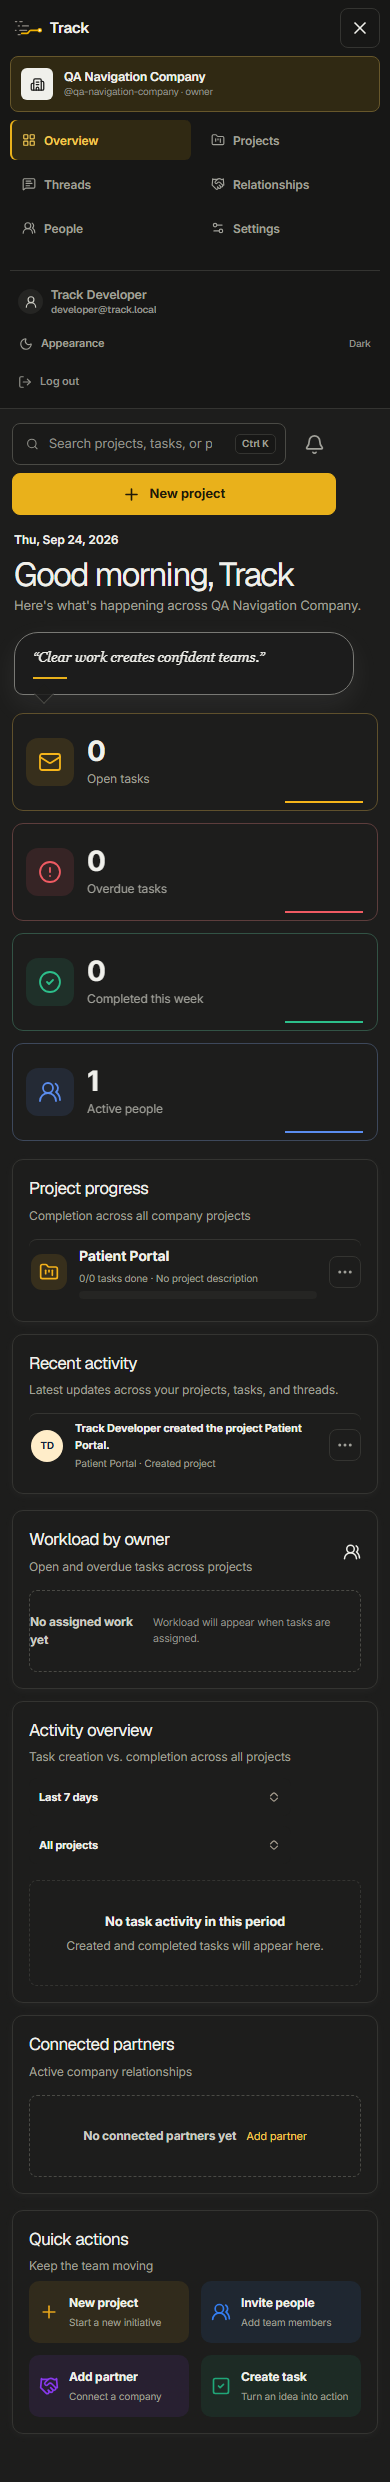
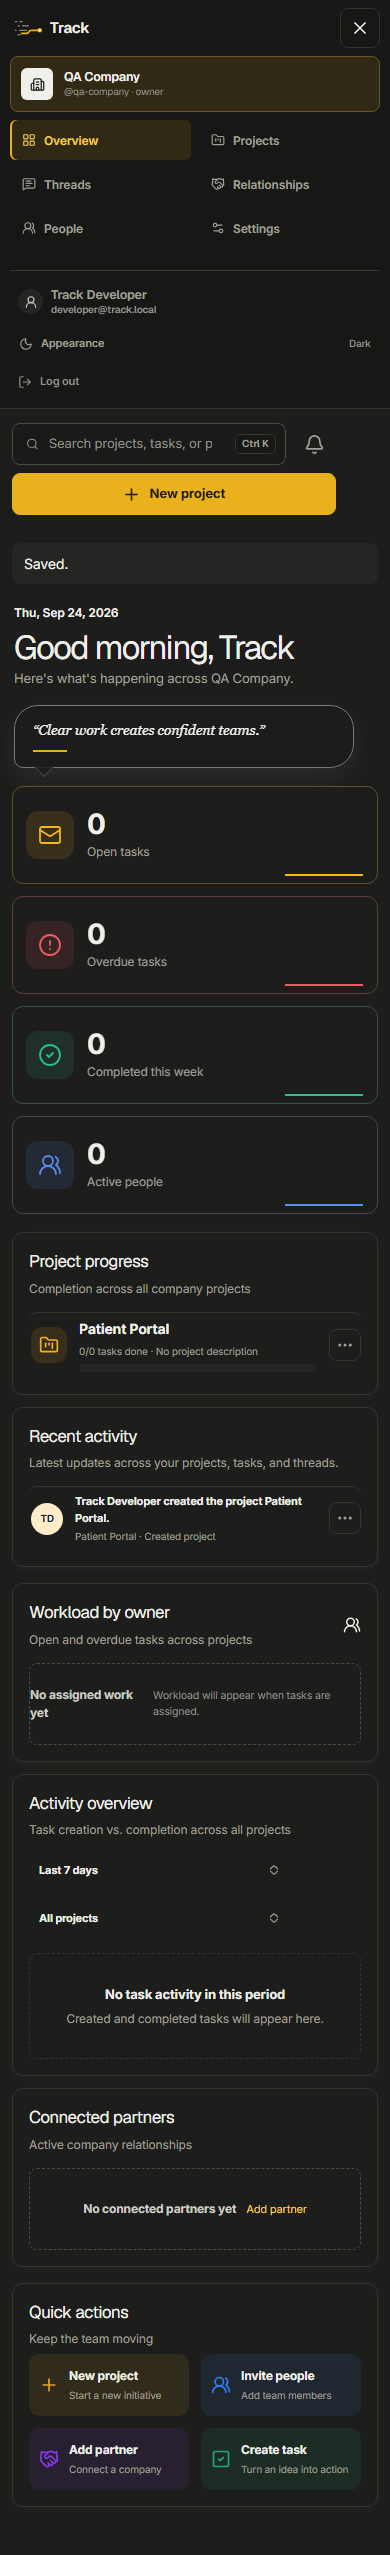
fix(convex): count only people with open assignments

diff --git a/convex/companyOverview.ts b/convex/companyOverview.ts
@@ -276,9 +276,8 @@ export const get = query({
     const { company } = await requireActiveCompanyMembership(ctx, actor, args.companyId)
     const rangeDays = args.days ?? 7
 
-    const [actorProjectMemberships, companyMembers, relationshipRows] = await Promise.all([
+    const [actorProjectMemberships, relationshipRows] = await Promise.all([
       ctx.db.query('projectMembers').withIndex('by_user', (q) => q.eq('userId', actor.userId)).collect(),
-      ctx.db.query('companyMembers').withIndex('by_company', (q) => q.eq('companyId', company._id)).collect(),
       ctx.db.query('relationshipCompanies').withIndex('by_company_status', (q) => q.eq('companyId', company._id).eq('status', 'active')).collect(),
     ])
 
@@ -363,11 +362,11 @@ export const get = query({
         const category = state?.category ?? 'unstarted'
         const done = isCompletedWorkflowState(state ? { category: state.category, stateName: state.name } : undefined)
         const terminal = done || category === 'canceled'
-        if (task.assigneeProjectMemberId) {
-          const assignee = members.find((member) => member._id === task.assigneeProjectMemberId)
-          if (assignee) assignedPeople.add(assignee.userId)
-        }
         if (!terminal) {
+          if (task.assigneeProjectMemberId) {
+            const assignee = members.find((member) => member._id === task.assigneeProjectMemberId)
+            if (assignee) assignedPeople.add(assignee.userId)
+          }
           openTasks += 1
           actionable += 1
           if (task.dueDate === today) dailyTasks += 1
@@ -601,7 +600,7 @@ export const get = query({
         inProgressTasks: distribution.inProgress,
         completedTasks: distribution.completed,
         upcomingTasks,
-        activePeople: assignedPeople.size || companyMembers.filter((member) => member.status === 'active').length,
+        activePeople: assignedPeople.size,
         trends: statTrends,
       },
       projects: projectRows.sort((left, right) => right.overdueTasks - left.overdueTasks || right.progress - left.progress).slice(0, 5),

diff --git a/convex/companyRelationships.test.ts b/convex/companyRelationships.test.ts
@@ -38,6 +38,8 @@ describe('Company model authorization and lifecycle', () => {
     const userId = await seedUser(t, 'activity-owner')
     const companyId = await createCompany(t, userId, 'Activity Company', 'activity-company')
     const projectId = await seedCompanyProject(t, userId, companyId, 'Patient Portal')
+    const otherCompanyId = await createCompany(t, userId, 'Other Activity Company', 'other-activity-company')
+    const otherProjectId = await seedCompanyProject(t, userId, otherCompanyId, 'Private Launch')
     const now = Date.now()
     await t.run(async (ctx) => {
       await ctx.db.insert('auditEvents', {
@@ -50,13 +52,20 @@ describe('Company model authorization and lifecycle', () => {
           action: 'memory_tool.read.allowed', createdAt: now + index,
         })
       }
+      await ctx.db.insert('auditEvents', {
+        companyId: otherCompanyId, projectId: otherProjectId, actorId: userId,
+        entityType: 'project', entityId: String(otherProjectId),
+        action: 'company_project.created', createdAt: now + 200,
+      })
     })
 
     const overview = await asUser(t, userId).query(api.companyOverview.get, { companyId })
+    expect(overview.stats.activePeople).toBe(0)
     expect(overview.recentActivity).toEqual(expect.arrayContaining([
       expect.objectContaining({ action: 'Created project', preview: 'activity-owner created the project Patient Portal.' }),
     ]))
     expect(overview.recentActivity).toHaveLength(1)
+    expect(overview.projects.map((project) => project.name)).toEqual(['Patient Portal'])
   })
 
   it('enforces Company task scope and suspended assignee authorization', async () => {

diff --git a/docs/review/company-workspace-qa.md b/docs/review/company-workspace-qa.md
@@ -14,8 +14,8 @@ The screenshots show the running web app in dark mode with a disposable local Co
 | Mobile Overview, 390 px | [Open screenshot](assets/company-workspace/overview-mobile.png) |
 | Mobile navigation open | [Open screenshot](assets/company-workspace/overview-mobile-navigation.png) |
 
-The local Company Tasks route loaded after the `companyOverview:listTasks` function was deployed to the isolated backend. Every captured route had zero horizontal page overflow, and the browser reported zero console or page errors during this capture. This does not prove that an existing signed-in session against the shared development deployment has recovered.
+The local Company Tasks route loaded after the `companyOverview:listTasks` function was deployed to the isolated backend. Every captured route had zero horizontal page overflow. The first seven-route sweep had no console or page errors. A later recapture logged one 401 resource response during sign-in; it did not recur on a repeated run, and its cause remains unproved. These local checks do not prove that an existing signed-in session against the shared development deployment has recovered.
 
-Recent activity uses a plain-language description for the supported project audit event. With no assigned tasks, the workload card stays compact; with no task creation or completion, the chart shows an empty-state message. On narrow screens, Company navigation starts compact and opens from a labeled button. The mobile menu closes with Escape. A 320–1600 px viewport sweep found no page overflow.
+Recent activity uses a plain-language description for the supported project audit event. The Active people count is zero when no one has an open assignment. With no assigned tasks, the workload card stays compact; with no task creation or completion, the chart shows an empty-state message. On narrow screens, Company navigation starts compact and opens from a labeled button. The mobile menu closes with Escape. A 320–1600 px viewport sweep found no page overflow.
 
 These checks do not prove every role, failure state, dialog, drawer, or shared-development session. The filtered audit query finds supported events beyond 100 newer internal events, but its scan cost with very large project histories has not been measured. The Company Workspace remains under review until those paths and data volumes are exercised.
